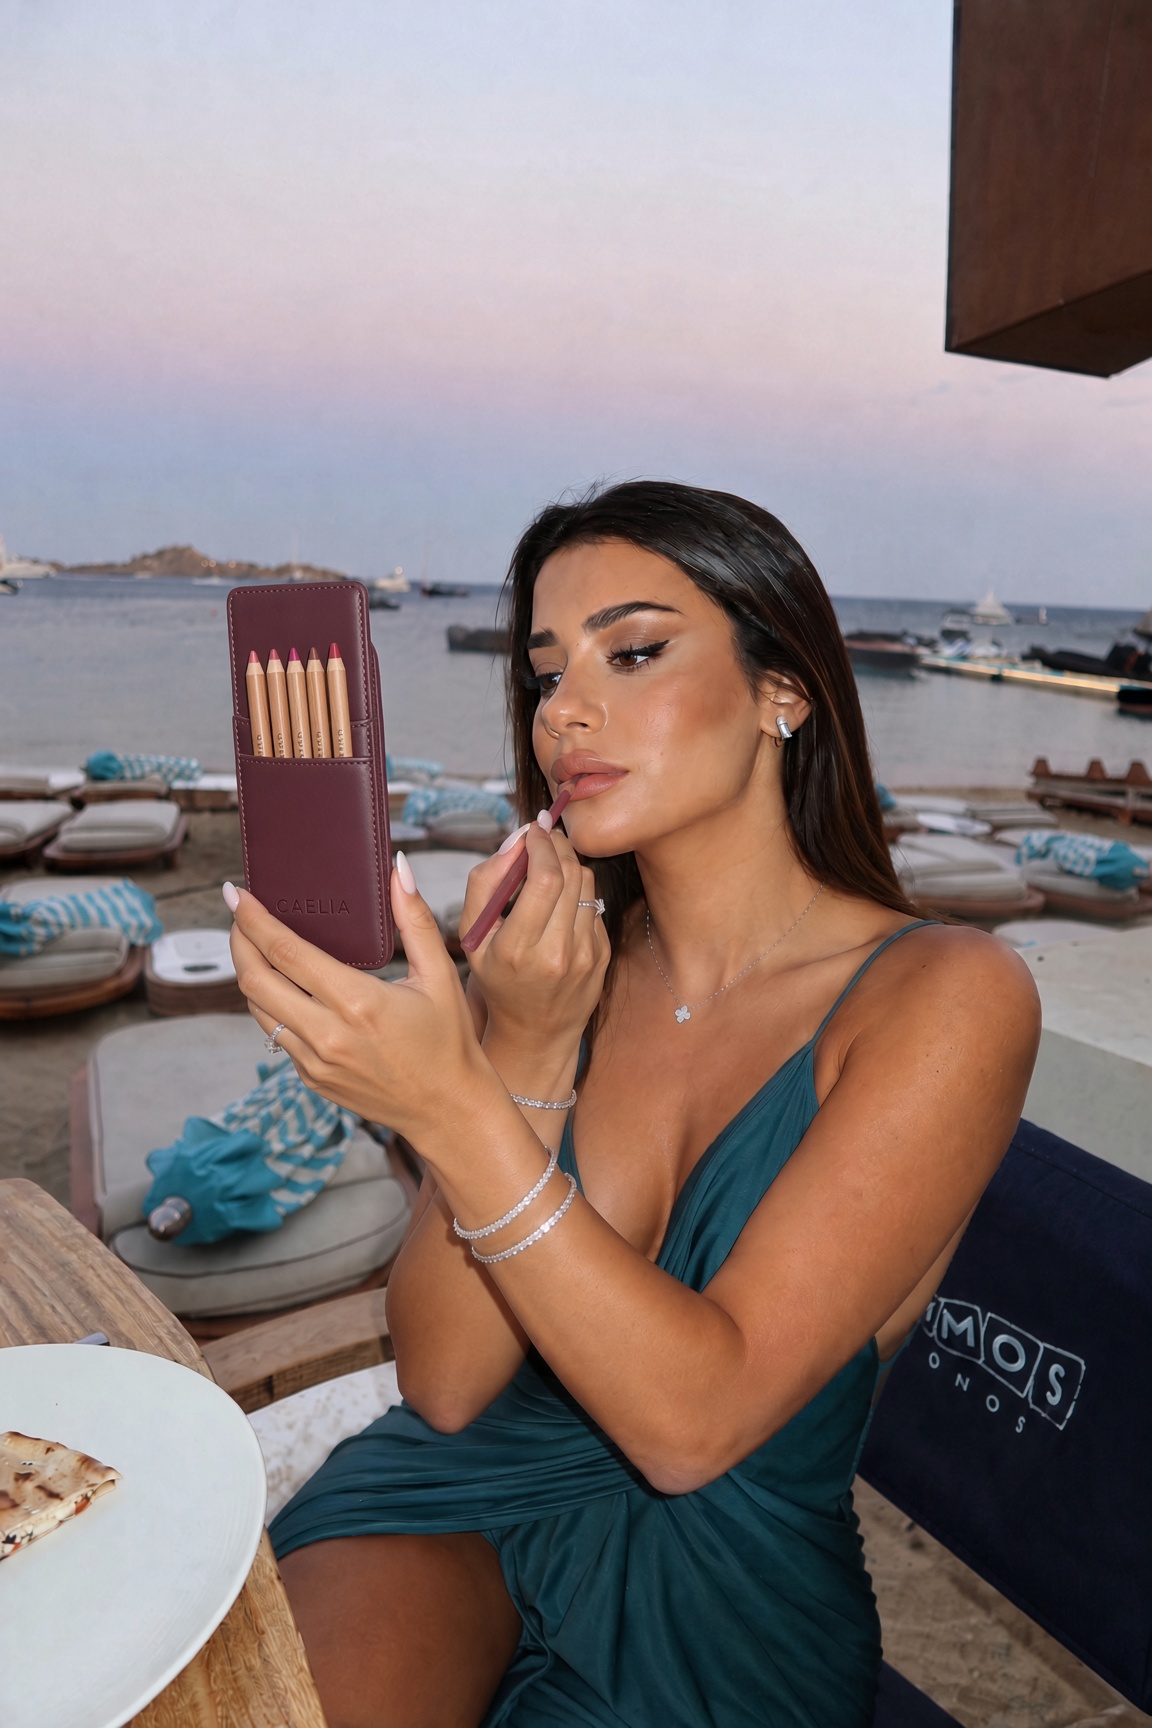
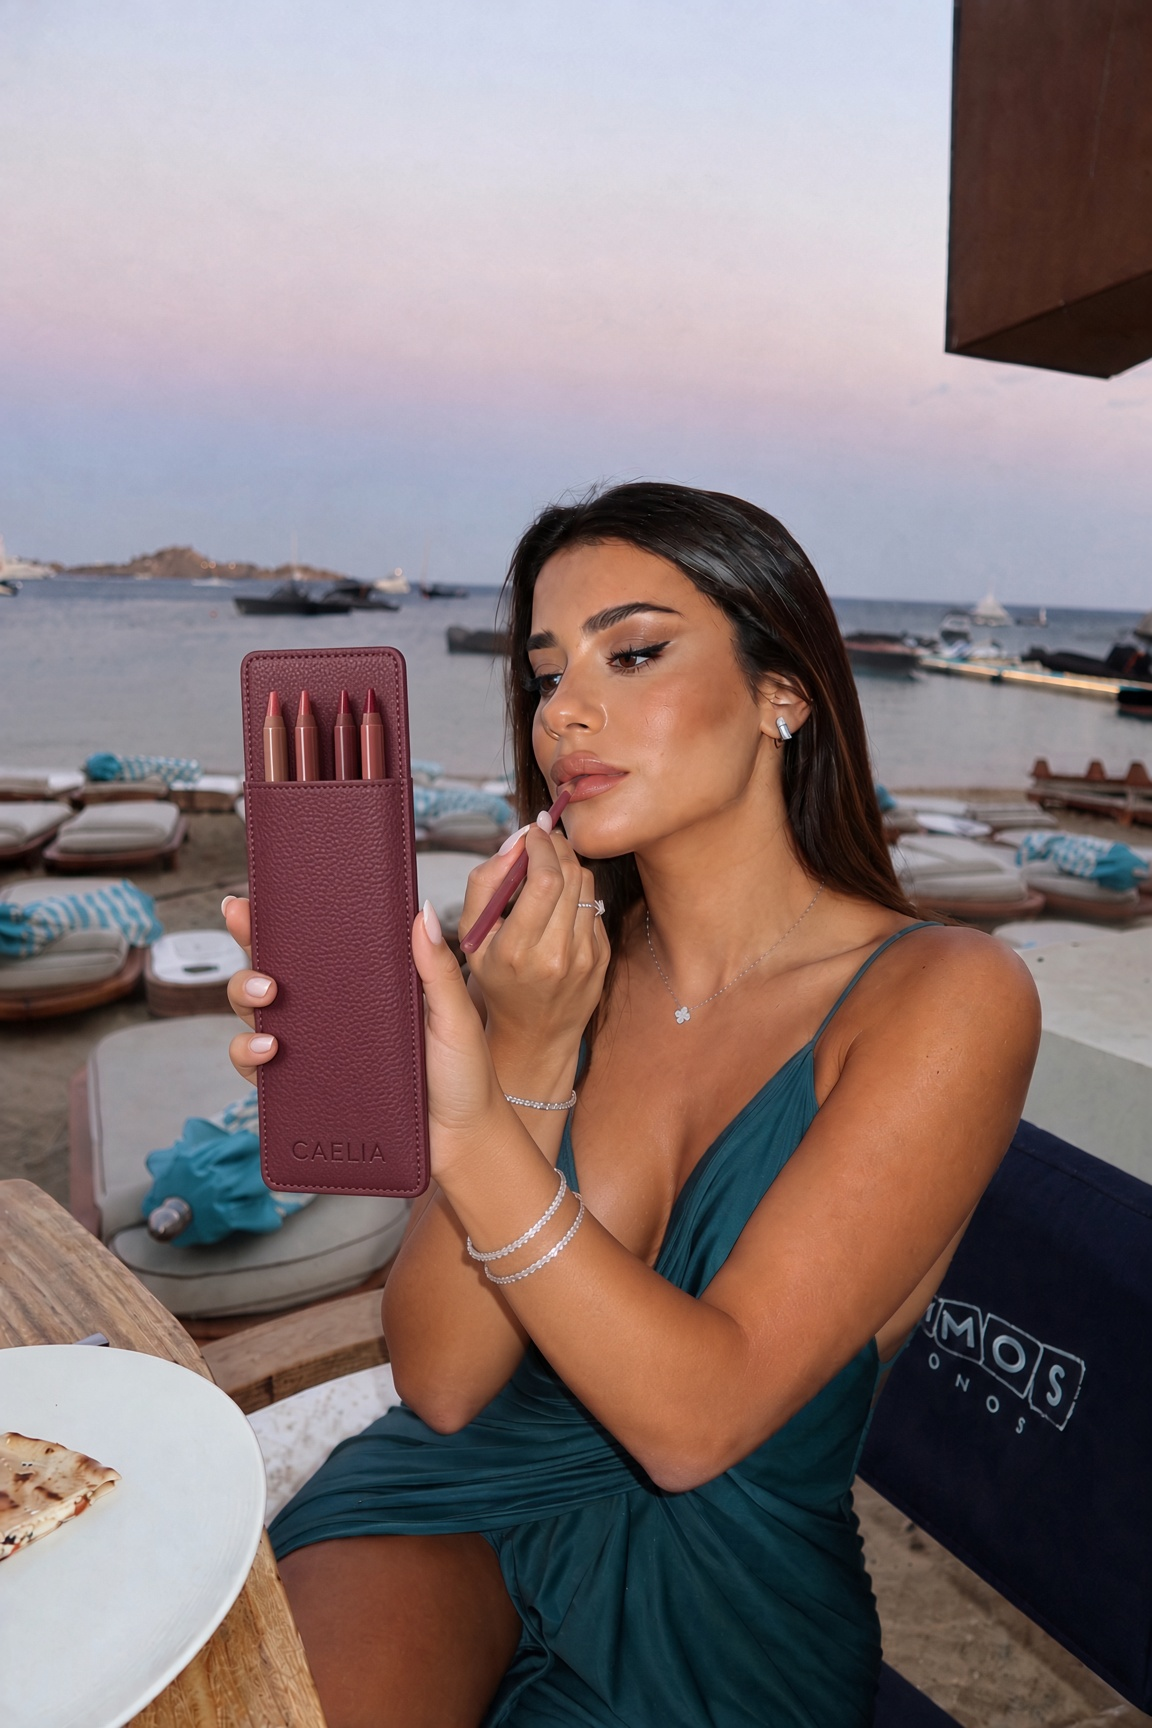
Composite exact CAELIA burgundy case with five pencils into Carla's photo.

diff --git a/src/lib/products.ts b/src/lib/products.ts
@@ -38,9 +38,9 @@ export const products: Product[] = [
       "Beauty Mirror Case in Burgundy Berry. Astuccio e specchio, stesso gesto.",
     images: [
       { src: "/campaign/pair-berry.jpg", alt: "Burgundy Berry — astuccio e specchio" },
-      { src: "/campaign/model-berry.jpg", alt: "Burgundy Berry — packshot" },
+      { src: "/campaign/model-berry-pencils.jpg", alt: "Burgundy Berry — cinque matite" },
       { src: "/campaign/life-carla.jpg", alt: "Carla con Burgundy Berry" },
-      { src: "/campaign/zoom-berry-logo.jpg", alt: "Logo CAELIA inciso" },
+      { src: "/campaign/model-berry.jpg", alt: "Burgundy Berry — packshot" },
     ],
     features,
   },
